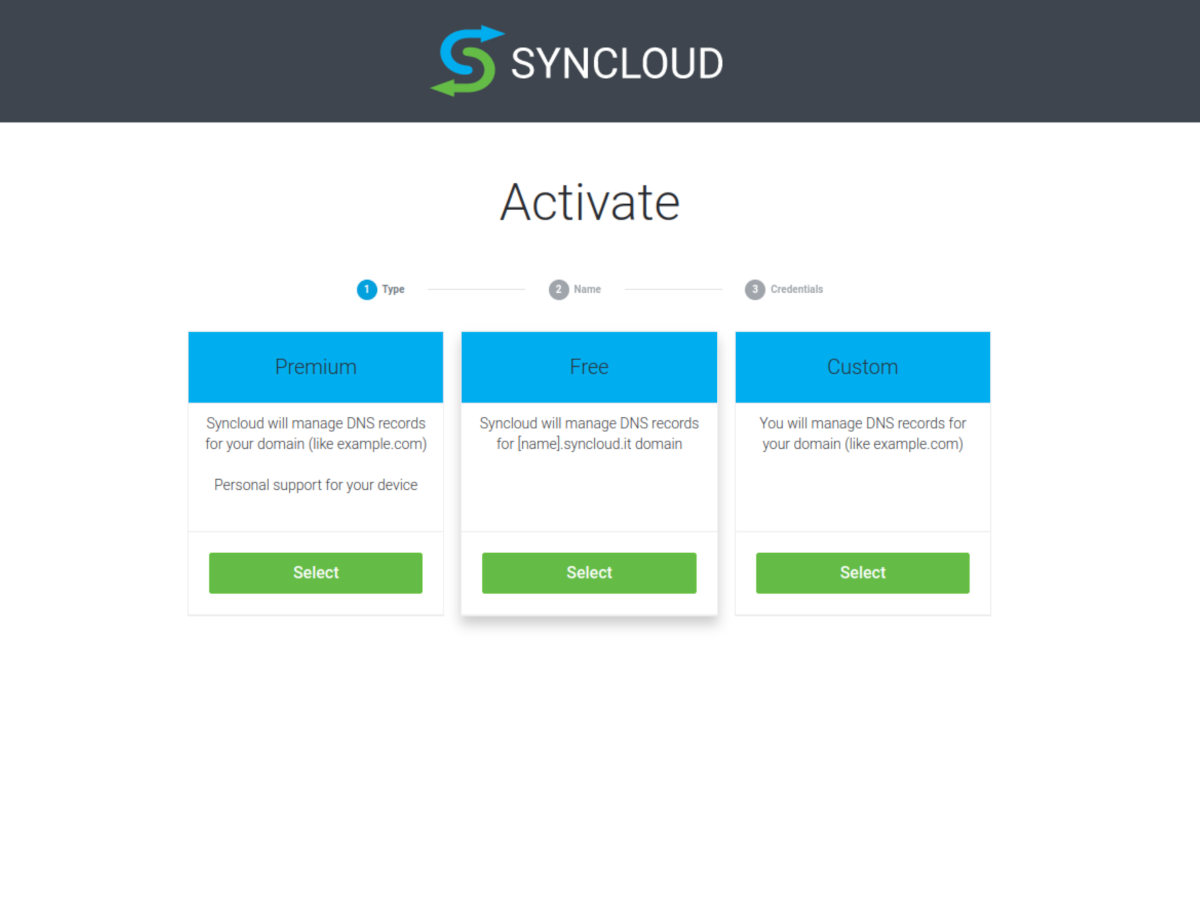
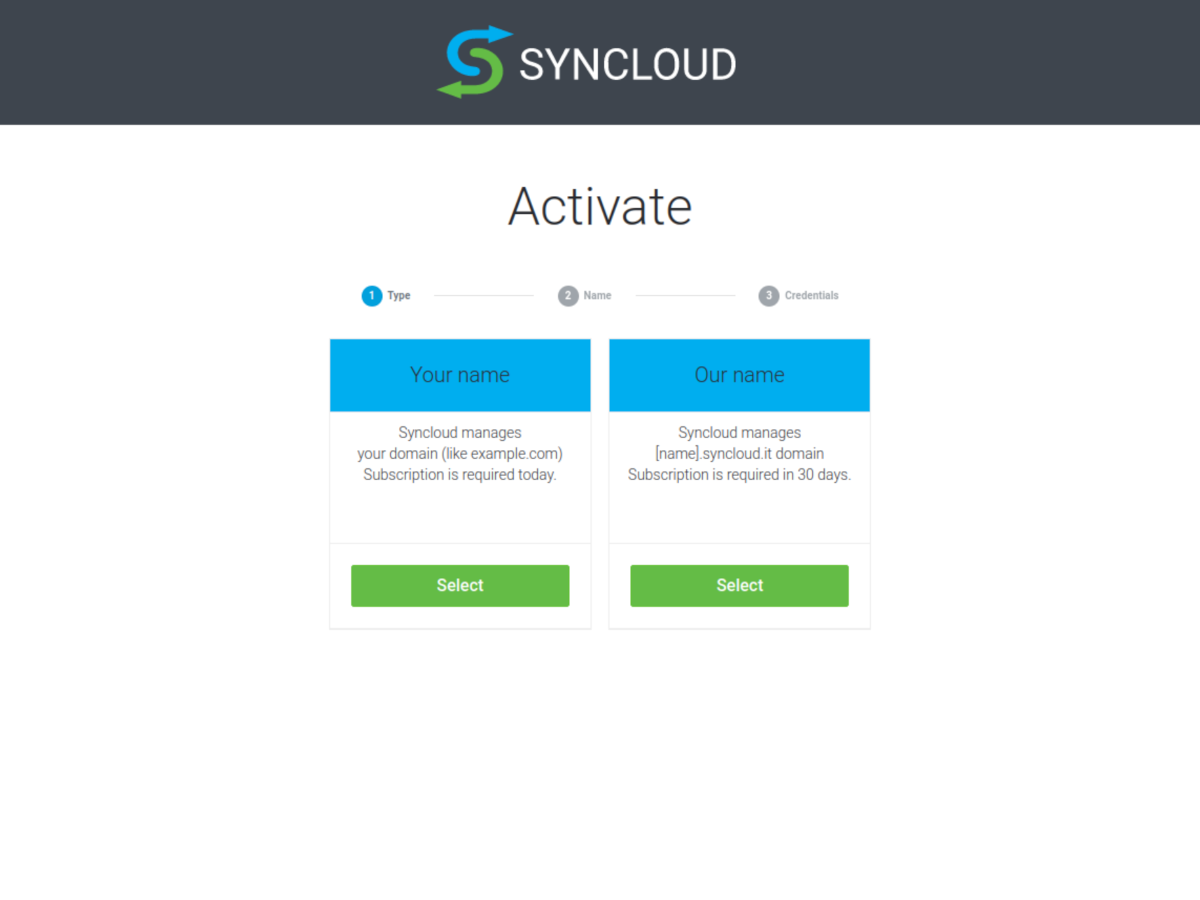
fix subscription

diff --git a/index.html b/index.html
@@ -169,14 +169,11 @@
 			Cost effective
 		</div>
 		<div class="btext" >
-			<span data-i18n="index_page_cost">Got sick of these subscriptions payments? It's not an issue with Syncloud! You buy hardware once and there are no recurring payments. Syncloud supports selection of affordable hardware. In addition to this you'll get domain name at</span> <a href="http://syncloud.it" onClick="_gaq.push(['_trackEvent', 'Landing', 'login']);">syncloud.it</a> <span data-i18n="index_page_cost_1">for free.</span>
+			<span data-i18n="index_page_cost_new">Syncloud supports selection of affordable hardware. Use your domain name or ours at</span> <a href="http://www.syncloud.it" onClick="_gaq.push(['_trackEvent', 'Landing', 'login']);">syncloud.it</a>
 		</div>
 		<div class="row">
-			<a class="round icon1" style="margin-right: 450px;" href="hardware.html" onClick="_gaq.push(['_trackEvent', 'Landing', 'hardware']);">
+			<a class="round icon1" style="" href="hardware.html" onClick="_gaq.push(['_trackEvent', 'Landing', 'hardware']);">
 			<span data-i18n="affordable_hardware">Affordable hardware</span>
-			</a>
-			<a class="round icon3" href="http://syncloud.it" onClick="_gaq.push(['_trackEvent', 'Landing', 'login']);">
-			<span data-i18n="free">Free</span><span style="padding-top: 0" data-i18n="domain">domain</span>
 			</a>
 		</div>
 	</div>
@@ -185,8 +182,8 @@
 <div class="bg6">
 	<div class="block6 wd12" id="block6">
 		<div class="bh1" data-i18n="we_believe_in_open_source">We believe in Open Source</div>
-		<div class="btext" data-i18n="index_page_open_source">
-			Syncloud is built on top of well known open source products including Debian, Avahi, python, nginx and many others. Syncloud would not be possible without these great projects. We believe that open source technologies and products have more potential, better quality, stronger security and simply they have more value. Therefore Syncloud itself is an open source project. Fork us on GitHub!
+		<div class="btext" data-i18n="index_page_open_source_new">
+			Syncloud would not be possible without the great open-source projects. We believe that open source technologies and products have more potential, better quality, stronger security, and simply they have more value. Therefore, Syncloud itself is an open source project. Fork us on GitHub!
 		</div>
 		<div class="row">
 			<a href="https://github.com/syncloud/platform" target="_blank" class="opso2" onClick="_gaq.push(['_trackEvent', 'Landing', 'github']);">Github</a>

diff --git a/faq.html b/faq.html
@@ -51,7 +51,7 @@
 		<div class="link_block wd12" id="account">
 			<div class="bh1"><span data-i18n="faq_2">Why do I need an account at</span> <a href="https://www.syncloud.it" class="a">www.syncloud.it</a> ?</div>
 			<div class="onecolumn2">
-				<div class="twoc_text" data-i18n="faq_2_answer">Syncloud provides free domain name for each Syncloud device. This domain name is linked to you device address. Account at www.syncloud.it is needed to enable control over these domain names.</div>
+				<div class="twoc_text" data-i18n="faq_2_answer_new">Syncloud manages domain names for each Syncloud device. This domain name is linked to you device address. Account at www.syncloud.it is needed to enable control over these domain names.</div>
 			</div>
 		</div>
 		<div class="link_block wd12" id="access">

diff --git a/include/footer.html b/include/footer.html
@@ -6,6 +6,6 @@
 			<a href="https://t.me/syncloud" target="_blank" class="link_telegram" onClick="_gaq.push(['_trackEvent', 'Website', 'telegram']);"></a>
 			<a href="https://syncloud.discourse.group" target="_blank" class="link_discourse" onClick="_gaq.push(['_trackEvent', 'Website', 'discourse']);"></a>
 		</div>
-		<div class="copyrights" ><span data-i18n="copyright" >Copyright © Syncloud, Ltd. All Rights Reserved.</span> 2016-2022</div>
+		<div class="copyrights" ><span data-i18n="copyright" >Copyright © Syncloud, Ltd. All Rights Reserved.</span> 2016-2023</div>
 </footer>
 </div>

diff --git a/css/landing.css b/css/landing.css
@@ -522,7 +522,6 @@ header .buttonblock a {
 }
 
 .block5 .row {
-    background: url(../images/block5.png) no-repeat center;
     padding: 90px 0
 }
 
